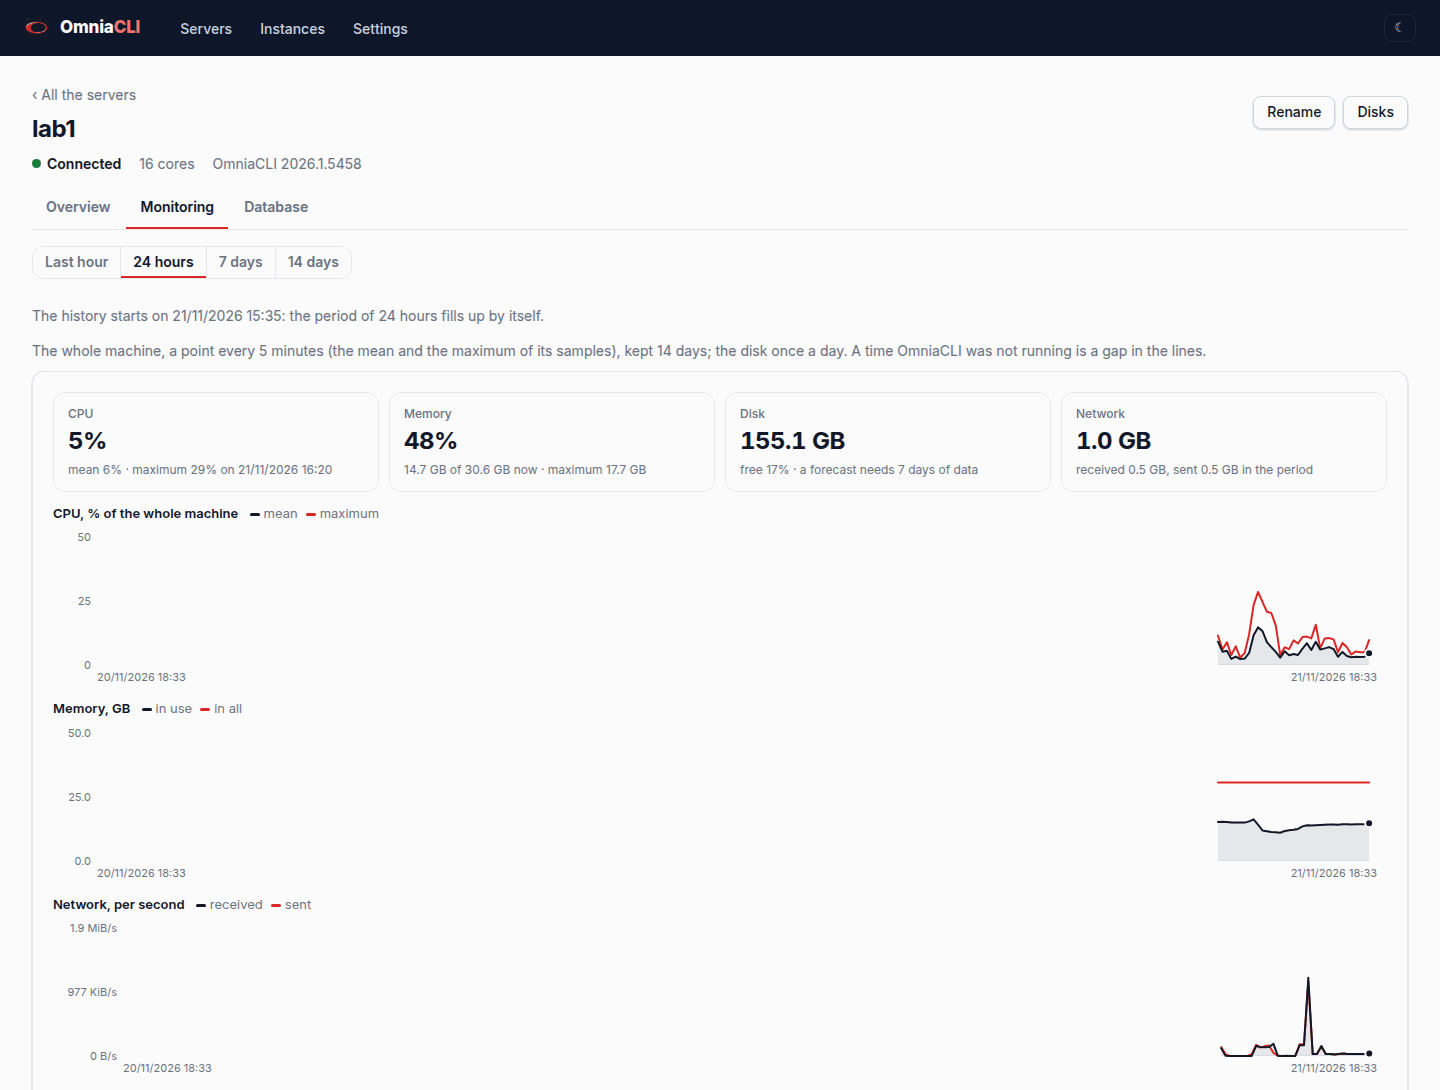
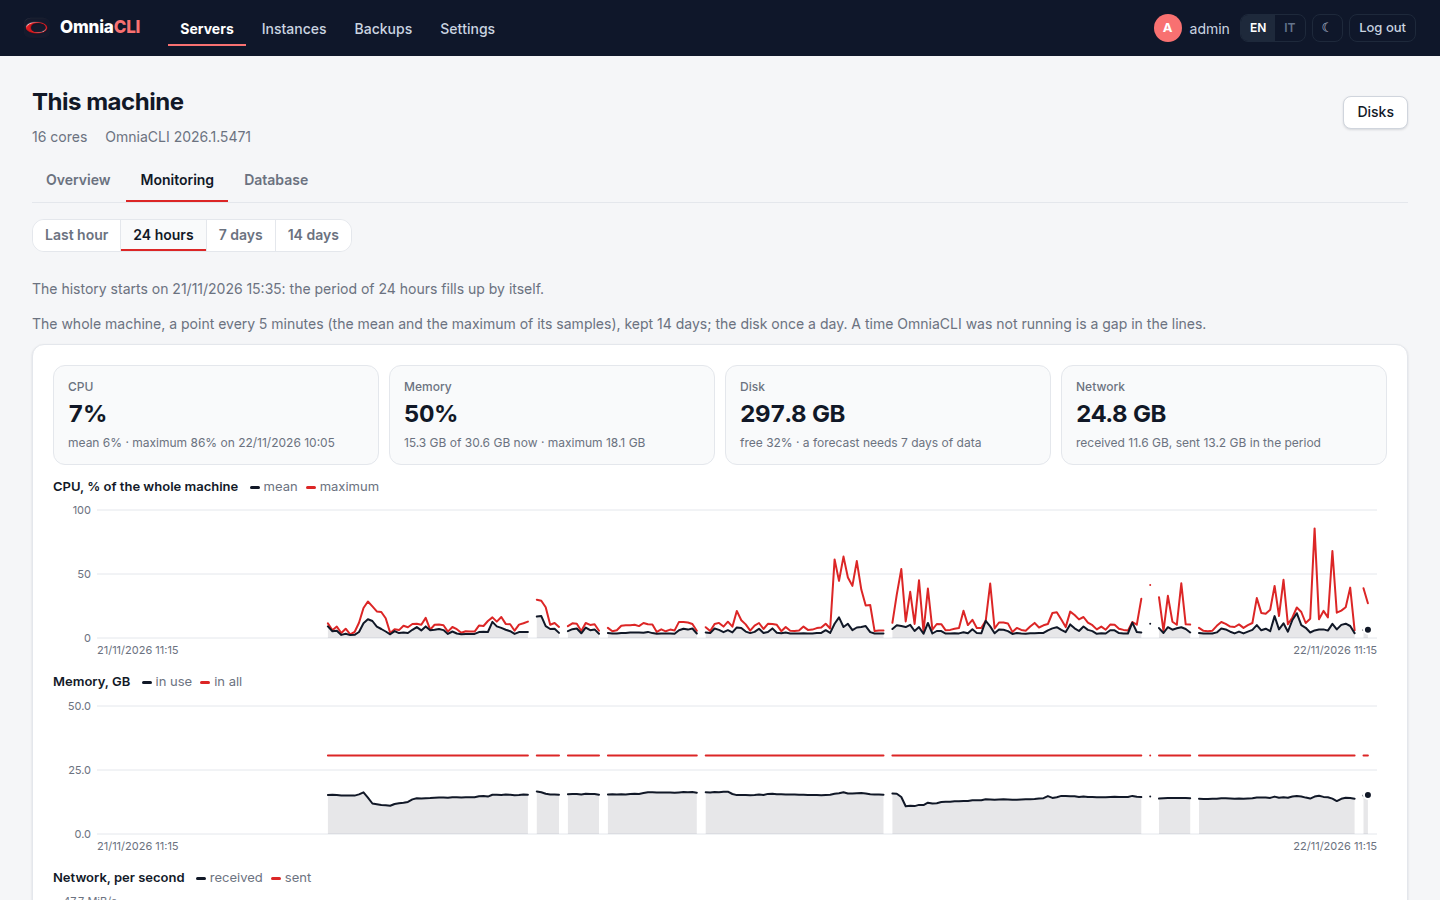
README screenshots of the panel as it is at 2026.1.5471: 27 of the 28 images taken again on the two test machines through their own panels, at 1440x900, in English and in the light theme (the map as its whole page, 1440x1066), the five that were still the upstream originals of October among them (Co

diff --git a/README.md b/README.md
@@ -64,8 +64,8 @@ Step by step, from the package to the first job: [Quickstart](docs/quickstart.md
 
 ## Screenshots
 
-The screenshots show demo data, on two test machines (`lab1`, `lab2`)
-operated from a third OmniaCLI through its links.
+The screenshots show demo data, on two test machines (`lab1`, `lab2`),
+each seen from its own OmniaCLI and the other through their link.
 
 **Login**, in English or Italian.
 
@@ -112,41 +112,49 @@ why there is none yet), orange within 90 days of full and red within 30.
 ![The page of a machine](docs/images/dashboard.png)
 
 **Monitoring** of a machine: the last hour live, or a point every 5 minutes
-over 24 hours, 7 or 14 days (here 24 hours, the history a few hours old).
+over 24 hours, 7 or 14 days (here 24 hours, the history twenty hours old).
 
 ![The Monitoring tab of a machine](docs/images/monitoring.png)
 
-**Database** of a machine (its admins): each instance's database, its size,
-connections, tuning and recovery at a minute; **Propose the values…**
-computes the values for the memory the machine has.
+**Database** of a machine (its admins): the machine's cluster with the
+instances it serves and its read replica on another machine (here on `lab1`),
+then each instance's own database; its size, connections, tuning and recovery
+at a minute; **Propose the values…** computes the values for the memory the
+machine has.
 
 ![The Database tab of a machine](docs/images/machine-database.png)
 
 ![The dialog that proposes the values of a database](docs/images/database-tuning.png)
 
-**Instances** and **Backups** of every machine: the stagings under their
-production, the productions without a scheduled backup (a filter), each
+**Instances** (its **List** tab) and **Backups** of every machine: the
+stagings under their production, the productions without a scheduled backup (a filter), each
 backup with its machine, its kind and its outcome.
 
 ![The Instances list of every machine](docs/images/instances.png)
 
 ![The Backups list of every machine](docs/images/backups.png)
 
-**The map**: the same instances as a diagram, where each thing configured is
+**The map** (the **Map** tab of Instances): the same instances as a diagram,
+where each thing configured is
 (the machines and their links, the workspaces, the names, the databases,
 where the backups go) and what moves now (the jobs, a transfer). It reads
 only.
 
 ![The map of the infrastructure](docs/images/infrastructure-map.png)
 
-**Disks**: each disk's used space by day, with the dashed forecast up to the
-day it is full.
+**Disks** (Settings › Disks, or **Disks** on a machine's page): each disk's
+used space by day and the estimate of the day it is full, with the dashed
+forecast once there are seven days of history (here two: no forecast yet);
+the workspaces' disks come after the machine's.
 
 ![The Disks page](docs/images/disks.png)
 
-**An instance**: its addresses and state in the head, with Open Odoo, Log in
-as…, Update and More; the tabs Environments (production, test and stagings,
-also those on another machine), Backups, Log, Monitoring, Modules, Settings.
+**An instance**: its name and state in the head, a problem with its names
+said under the title (here the test machine's names have no certificate),
+with Open Odoo, Log in as…, Update and More; the tabs Overview (its Odoo
+version, whether it answers, and its environments: production, test and
+stagings, also those on another machine), Backups, Log, Monitoring, Modules,
+Settings.
 
 ![The page of an instance](docs/images/server.png)
 
@@ -188,7 +196,8 @@ as here, takes the modules typed, or the changed ones when left empty.
 
 ![The Update modules dialog](docs/images/update-dialog.png)
 
-**Backup**: what goes in the zip, its weight, and whether its restore fits.
+**Backup**: what goes in the zip, its weight, and whether its restore fits
+(a Docker Compose instance, as here, has no room check of a restore).
 
 ![The Backup dialog](docs/images/backup-dialog.png)
 
@@ -198,17 +207,21 @@ Cancel or Esc for no.
 
 ![A confirmation in the page's own dialog](docs/images/page-dialog.png)
 
-**Copy production to test**: a new backup of production, or one already made.
+**Copy production to test** (in More, on the test of an instance that has
+one): a new backup of production, or one already made; a Docker Compose
+instance, as here, makes a new one and asks what test's filestore becomes
+(shared with production, a copy of it, none).
 
 ![The Copy production to test dialog](docs/images/copy-dialog.png)
 
 **Copy from link**: a backup made on a linked instance (a new one or one
 already there), transferred here and restored; the job page follows each
-step, the transfer with its size, speed and time left.
+step, the transfer with its size, speed and time left (here its last step,
+the restore).
 
 ![The Copy from link dialog](docs/images/copy-from-link.png)
 
-![A Copy from link job during the transfer](docs/images/copy-from-link-job.png)
+![A Copy from link job during the restore](docs/images/copy-from-link-job.png)
 
 **A job**, and **Settings › Servers by hand**, where servers are added,
 discovered, tested and activated.
